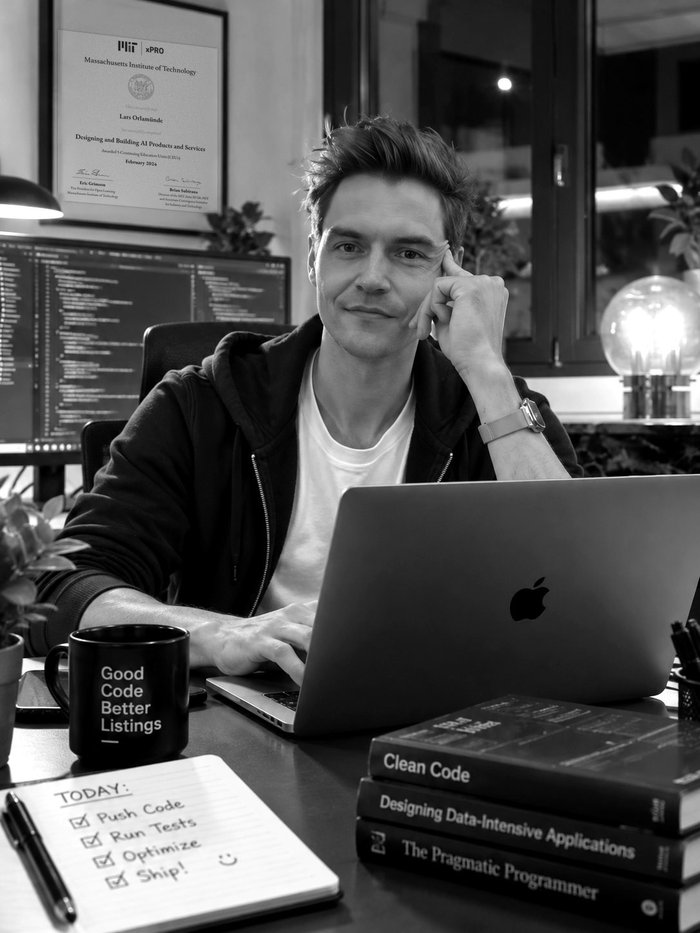
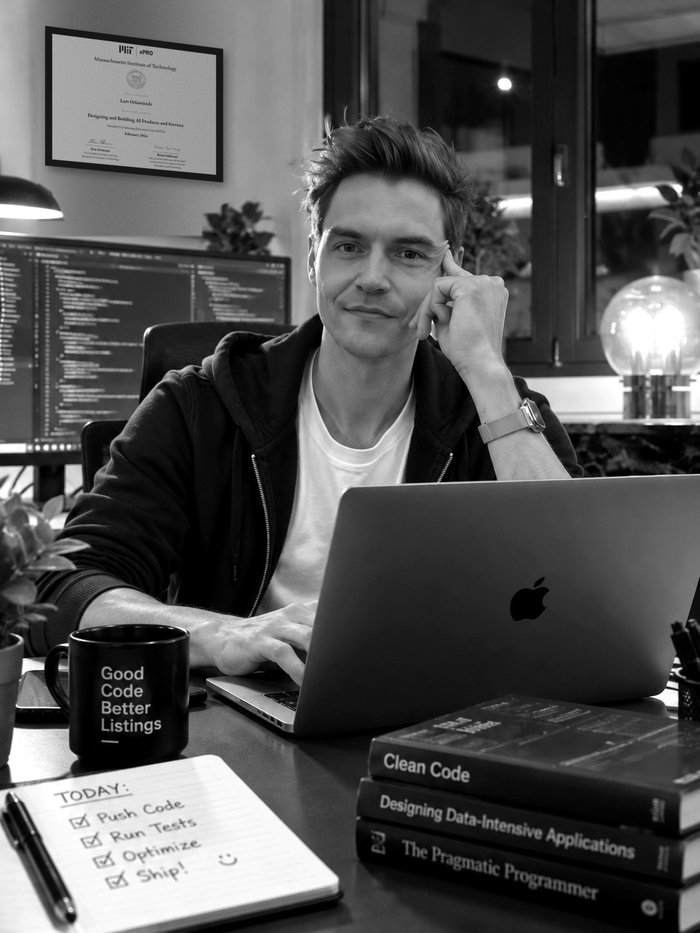
Profilbild: Rahmen im Format des MIT-Zertifikats
Claude-Session: https://claude.ai/code/session_01JnJhZpiW9LUHGCpXo7Yde3

Changed region(s): [[0.03, 0.0, 0.33, 0.2797]]

diff --git a/index.html b/index.html
@@ -743,7 +743,7 @@ html[lang="de"] .big-cta{font-size:clamp(28px,5vw,76px)}
   <div class="wrap founder-grid">
     <aside class="portrait-col">
       <div class="portrait">
-        <img src="/assets/lars-schreibtisch-hoch.jpg?v=4" srcset="/assets/lars-schreibtisch-hoch-700.jpg?v=4 700w, /assets/lars-schreibtisch-hoch.jpg?v=4 1086w" sizes="(max-width: 960px) 100vw, 45vw" width="1086" height="1448" alt="Lars Orlamünde, Founder &amp; CEO der TradeX International AG, an seinem Schreibtisch" data-en-alt="Lars Orlamünde, Founder &amp; CEO of TradeX International AG, at his desk">
+        <img src="/assets/lars-schreibtisch-hoch.jpg?v=5" srcset="/assets/lars-schreibtisch-hoch-700.jpg?v=5 700w, /assets/lars-schreibtisch-hoch.jpg?v=5 1086w" sizes="(max-width: 960px) 100vw, 45vw" width="1086" height="1448" alt="Lars Orlamünde, Founder &amp; CEO der TradeX International AG, an seinem Schreibtisch" data-en-alt="Lars Orlamünde, Founder &amp; CEO of TradeX International AG, at his desk">
         <span class="vign" aria-hidden="true"></span>
         <span class="shade" aria-hidden="true"></span>
         <span class="corner c1"></span><span class="corner c2"></span><span class="corner c3"></span><span class="corner c4"></span>
